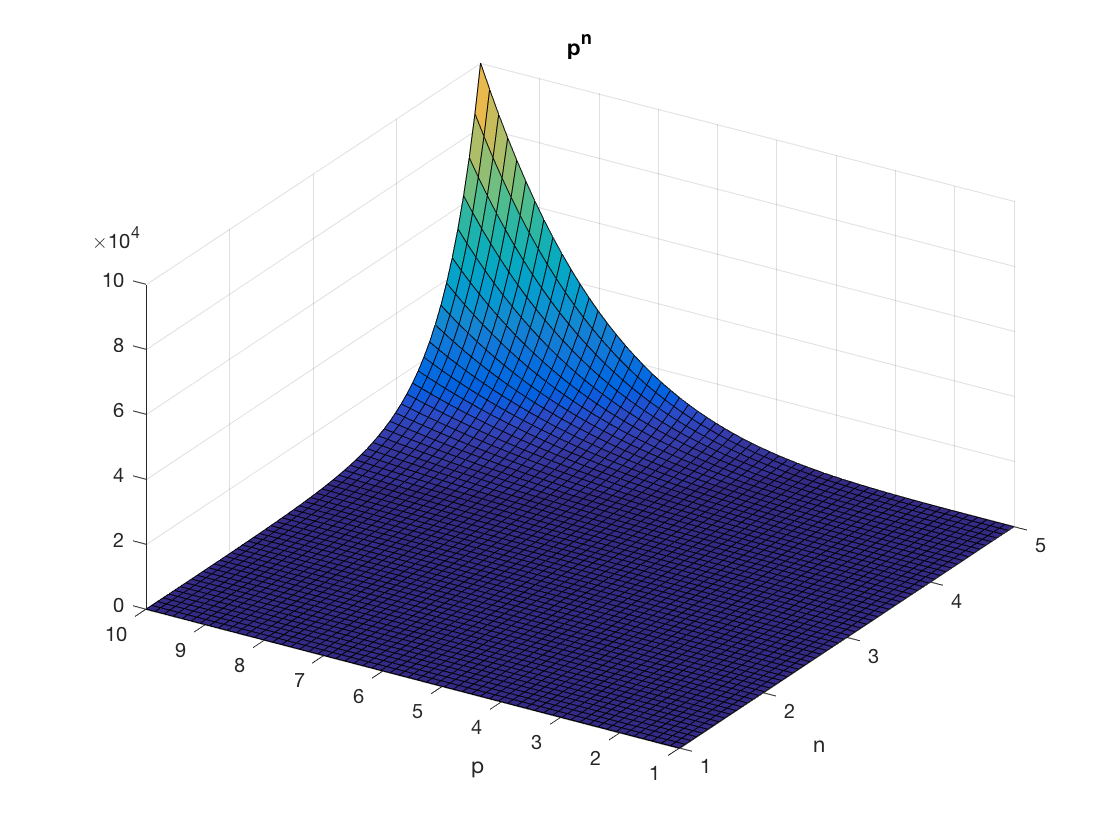
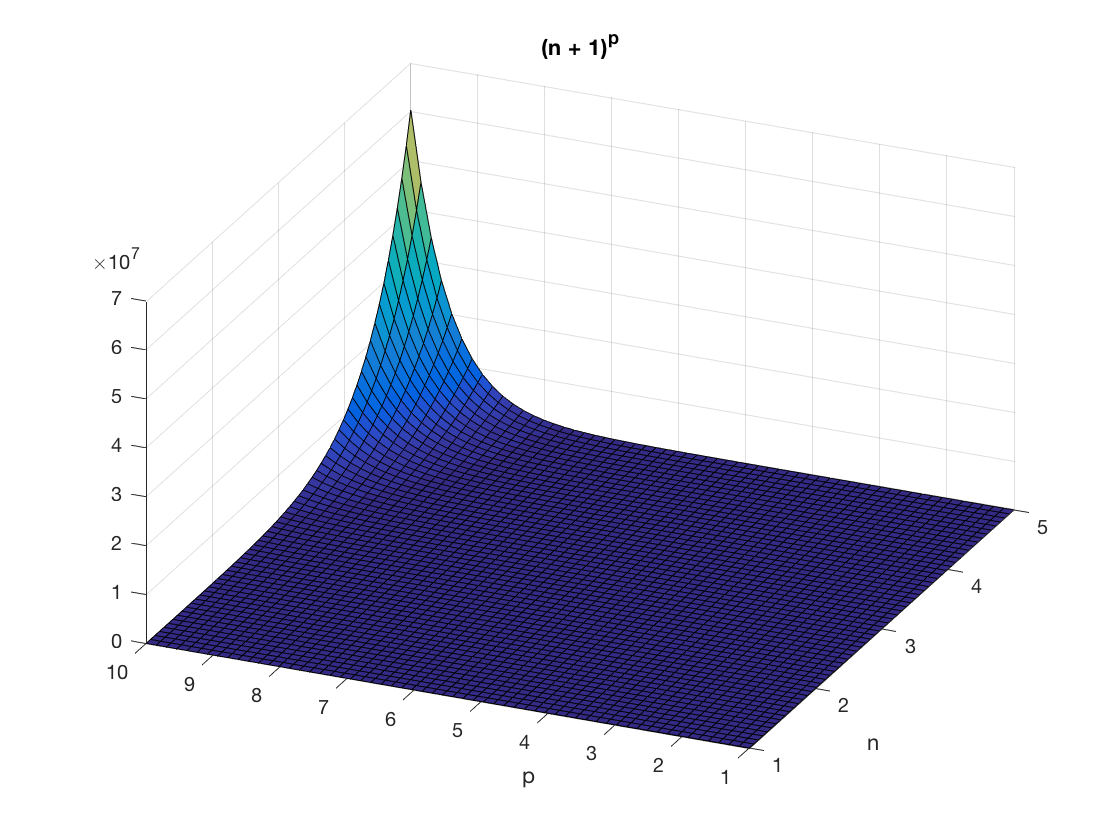
improved fig2 + edits

diff --git a/_posts/2018-06-22-finding-best-meals.md b/_posts/2018-06-22-finding-best-meals.md
@@ -45,4 +45,4 @@ But let's wait a second just to mention one important limitation of this approac
 
 {% include figure.html file="/imgs/meal-2.png" description="Figure 2: I wish I could call this a slide, but unfortunately it's more like a steep mountain for us" %}
 
-The number of cases gets higher faster and faster. So, we really can't use brute force for a big number of products unless we want to wait for eternity before picking a meal! For our case though, it is perfectly okay to use brute force. Let's go ahead and see how long it takes for different numbers of products.
+The number of cases gets higher faster and faster. So, we really can't use brute force for a big number of products unless we want to wait for eternity before picking a meal! For our case though, it is perfectly okay, even badass, to use brute force. Let's go ahead and see how long it takes for different numbers of products.
